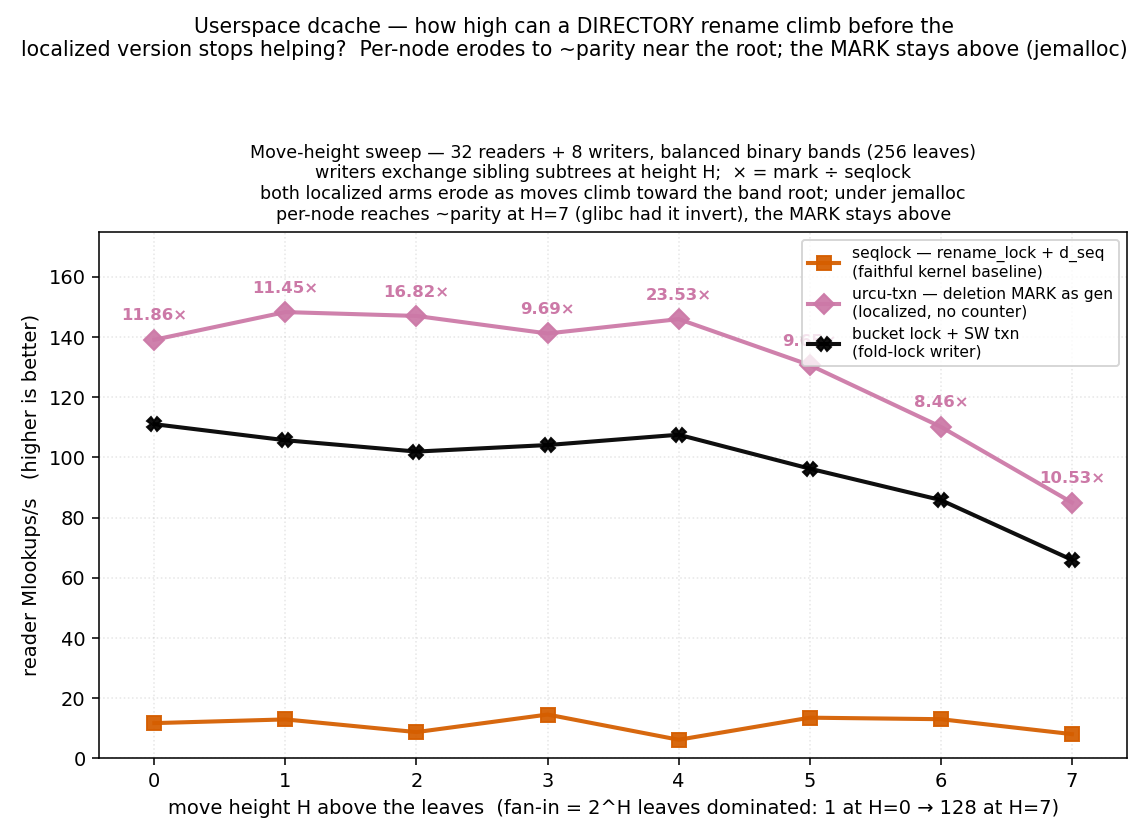
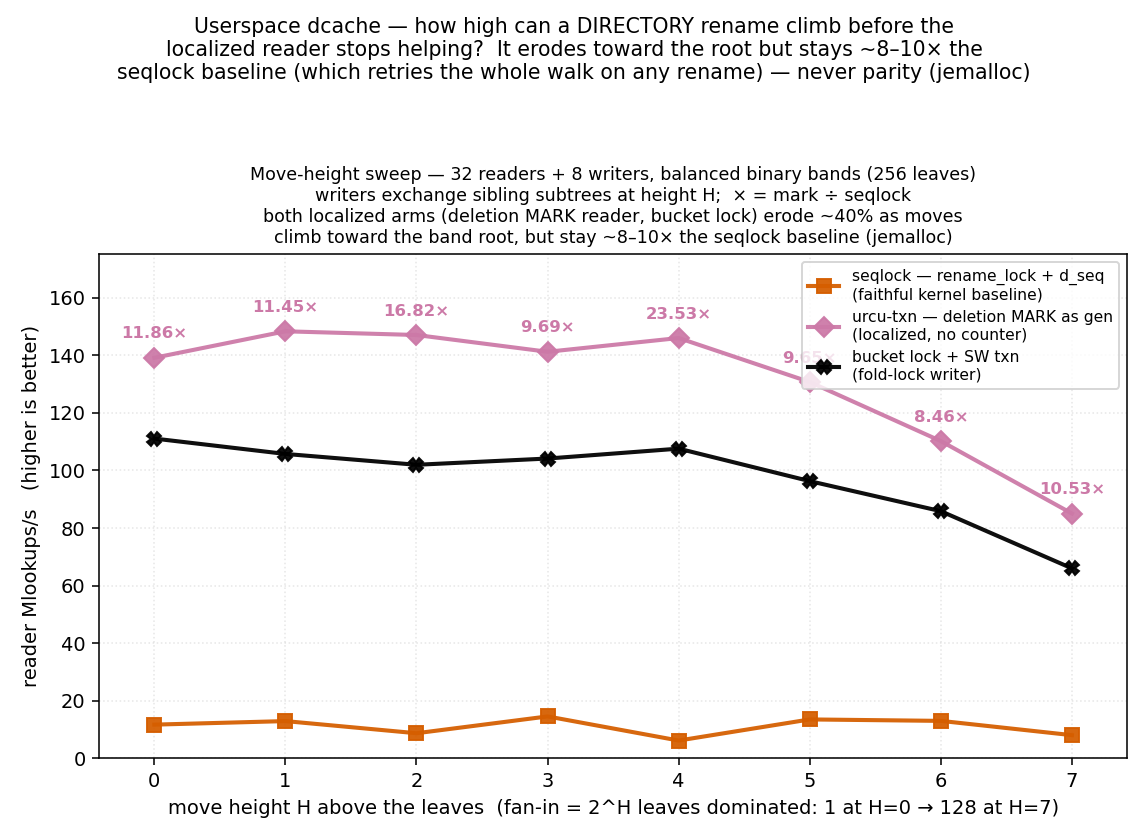
dcache height figure: fix stale per-node/parity title
The title still described the txn-pernode arm ('per-node erodes to ~parity near
the root'), but per-node was dropped from the plot when the bucket-lock arm was
added -- the plotted localized arms are the deletion-MARK reader and the bucket
lock, and they do NOT reach parity: at the near-root H=7 they are still ~10x and
~8x the seqlock baseline (seqlock retries the whole walk on any rename regardless
of height; the localized reader only retries walks through the moved subtree).
Rewrite the suptitle, panel title, docstring, and ANNOT comments to the three
plotted arms and the correct erode-but-never-parity behaviour.

diff --git a/scripts/plot_dcache_height.py b/scripts/plot_dcache_height.py
@@ -1,20 +1,24 @@
 #!/usr/bin/env python3
 """
-Adversarial move-HEIGHT sweep -- how far does the per-node localization survive?
+Adversarial move-HEIGHT sweep -- how far does the localized reader's lead survive?
 
-The S3 sweep moves leaves (fan-in 1): the per-node counter's best case.  Here the
+The S3 sweep moves leaves (fan-in 1): the localized reader's best case.  Here the
 reader workload is fixed (uniform full-depth walks over a balanced binary forest)
 and the writers move nodes at a swept HEIGHT H; a move at height H swaps two
 sibling subtrees of 2^H leaves, invalidating a fraction ~2^(H-D) of reader walks.
-The per-node reader's lead over the seqlock baseline should erode from its
-leaf-case peak toward parity as H climbs, because a near-root move touches almost
-every walk -- exactly what rename_lock does.  That erosion is the honest BOUND on
-the S3 headline: per-node wins big for the common (low-fan-in) rename, and degrades
-gracefully to the baseline for the rare near-root move.
+The localized reader's lead over the seqlock baseline erodes from its leaf-case
+peak as H climbs (a near-root move touches almost every walk), but it does NOT
+reach parity: at H=7 the deletion-MARK reader and the bucket lock are still ~10x
+and ~8x the seqlock baseline, because seqlock retries the WHOLE walk on ANY rename
+regardless of height, while the localized reader only retries walks that actually
+pass through the moved subtree.  So this bounds the S3 headline: the localized
+lead shrinks ~40% for the rare near-root move but never collapses to the baseline.
 
-Two-way (seqlock vs per-node), consistent with dcache_s3.png; the txn-global arm
-(uniformly floored here -- its one counter slot serializes all 8 writers AND its
-deep-walk readers retry on every bump) stays in the CSV.
+Plotted: seqlock vs the localized deletion-MARK reader (txn-mark) and the bucket
+lock + SW (bucketlock, same mark reader, fold-lock writer).  The txn-global and
+txn-pernode arms stay in the CSV but are dropped from the plot (global is
+uniformly floored -- one counter slot serializes all writers; per-node coincides
+with the mark reader, differing only in which CL0 word the stamp reads).
 
 Data: scripts/dcache_height.csv (best-of-5, conservation-gated).  2x96 EPYC.
 """
@@ -37,7 +41,7 @@ LABEL = {
     "txn-mark": "urcu-txn — deletion MARK as gen\n(localized, no counter)",
     "bucketlock": "bucket lock + SW txn\n(fold-lock writer)",
 }
-# The height panel is where the localized arms are WEAKEST (the per-node lead
+# The height panel is where the localized arms are WEAKEST (their lead
 # erodes toward the root), so it is the panel where they could plausibly diverge
 # rather than coincide -- worth plotting the mark arm here explicitly.
 ENGINES = tuple(os.environ.get(
@@ -58,8 +62,8 @@ for e in ENGINES:
     if xs:
         ax.plot(xs, ys, color=COLOR[e], marker=MARKER[e], lw=2.1, ms=7,
                 label=LABEL[e], alpha=0.94)
-# per-node lead over the seqlock baseline at each height -- the erosion.
-# Label above the per-node point where it leads, below where it dips under
+# the ANNOT (mark) arm's lead over the seqlock baseline at each height -- the erosion.
+# Label above the point where it leads, below where it dips under
 # seqlock (so the text never lands on the other curve at the crossover).
 ANNOT = os.environ.get("ANNOT", "txn-mark")
 for h in sorted(base.get(ANNOT, {})):
@@ -85,15 +89,16 @@ ax.set_xlabel("move height H above the leaves  "
 ax.set_ylabel("reader Mlookups/s   (higher is better)")
 ax.set_title("Move-height sweep — 32 readers + 8 writers, balanced binary bands "
              "(256 leaves)\nwriters exchange sibling subtrees at height H;  "
-             "× = mark ÷ seqlock\nboth localized arms erode as moves climb toward the "
-             "band root; under jemalloc\nper-node reaches ~parity at H=7 (glibc had it "
-             "invert), the MARK stays above",
+             "× = mark ÷ seqlock\nboth localized arms (deletion MARK reader, bucket "
+             "lock) erode ~40% as moves\nclimb toward the band root, but stay ~8–10× "
+             "the seqlock baseline (jemalloc)",
              fontsize=9)
 ax.grid(alpha=0.3, ls=":")
 ax.legend(fontsize=8, loc="best")
 fig.suptitle("Userspace dcache — how high can a DIRECTORY rename climb before the\n"
-             "localized version stops helping?  Per-node erodes to ~parity near the root; "
-             "the MARK stays above (jemalloc)",
+             "localized reader stops helping?  It erodes toward the root but stays ~8–10× "
+             "the\nseqlock baseline (which retries the whole walk on any rename) — never parity "
+             "(jemalloc)",
              fontsize=10.5)
 fig.tight_layout(rect=[0, 0, 1, 0.93])
 fig.savefig(OUT, dpi=140)
